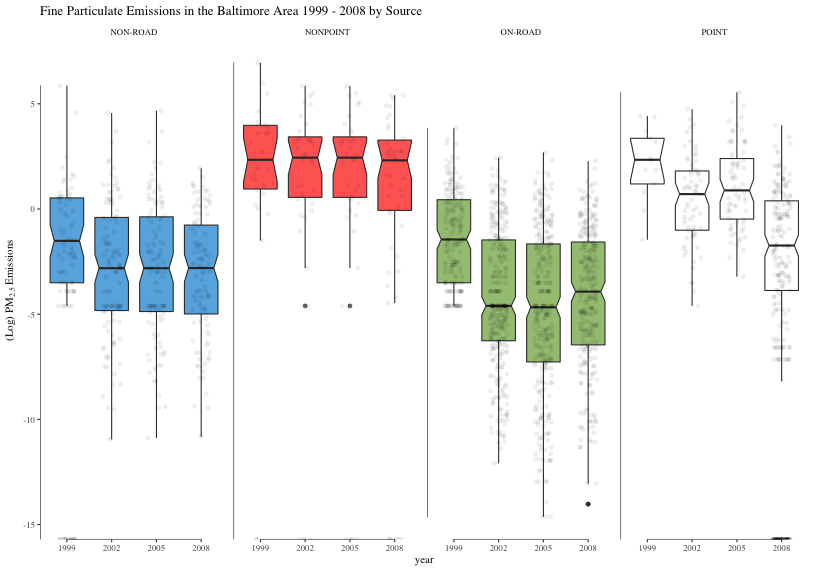
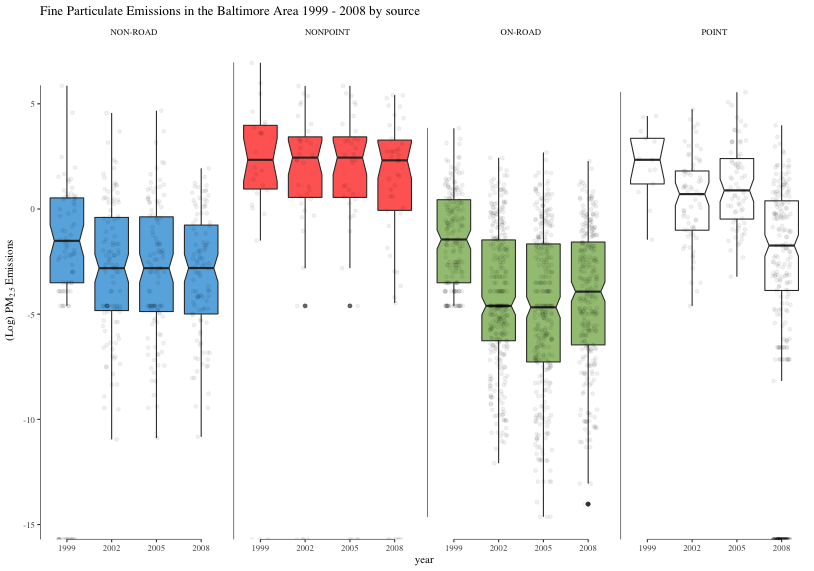
altered readme re-ran code for charts

diff --git a/README.md b/README.md
@@ -12,17 +12,17 @@ The 6 evaluations are as follows:
 ##### 1
 ![](https://github.com/afox226293/exploratory_analysis_2/blob/master/plot1.png)
 
-The first plot looks at the total emissions (given in millions of tonnes) of fine particualte matter (PM~2.5~) across the United States for 4 individual years (1999, 2002, 2005, 2008) across a ten year period.  The graph shows a year on year decrease of total emissions.  As per the instructions of the project this is produced using base R graphics.
+The first plot looks at the total emissions (given in millions of tonnes) of fine particualte matter (PM2.5) across the United States for 4 individual years (1999, 2002, 2005, 2008) across a ten year period.  The graph shows a year on year decrease of total emissions.  As per the instructions of the project this is produced using base R graphics.
 
 ##### 2
 ![](https://github.com/afox226293/exploratory_analysis_2/blob/master/plot2.png)
 
-The second plot shows the total emissions of fine particulate matter(PM~2.5~) in tonnes over a ten year period by comparing the total emissions from all sources from four years(1999, 2002, 2005, 2008). It shows that overall there has been a decrease over the period however there was an increase between 2002 and 2005.  As per the instructions of the project this is produced using base R graphics.
+The second plot shows the total emissions of fine particulate matter(PM2.5) in tonnes over a ten year period by comparing the total emissions from all sources from four years(1999, 2002, 2005, 2008). It shows that overall there has been a decrease over the period however there was an increase between 2002 and 2005.  As per the instructions of the project this is produced using base R graphics.
 
 ##### 3
 ![](https://github.com/afox226293/exploratory_analysis_2/blob/master/plot3.png)
 
-The third plot looks at the emissions in Baltimore seperated out by the catagory of source (point, nonpoint, onroad, nonroad).  To allow for direct comparison a boxplot is provided measuring the log~10~ of the emissions.  As per the instructions of the project this is produced using ggplot2.
+The third plot looks at the emissions in Baltimore seperated out by the catagory of source (point, nonpoint, onroad, nonroad).  To allow for direct comparison a boxplot is provided measuring the log10 of the emissions.  As per the instructions of the project this is produced using ggplot2.
 
 ##### 4
 ![](https://github.com/afox226293/exploratory_analysis_2/blob/master/plot4.png)
